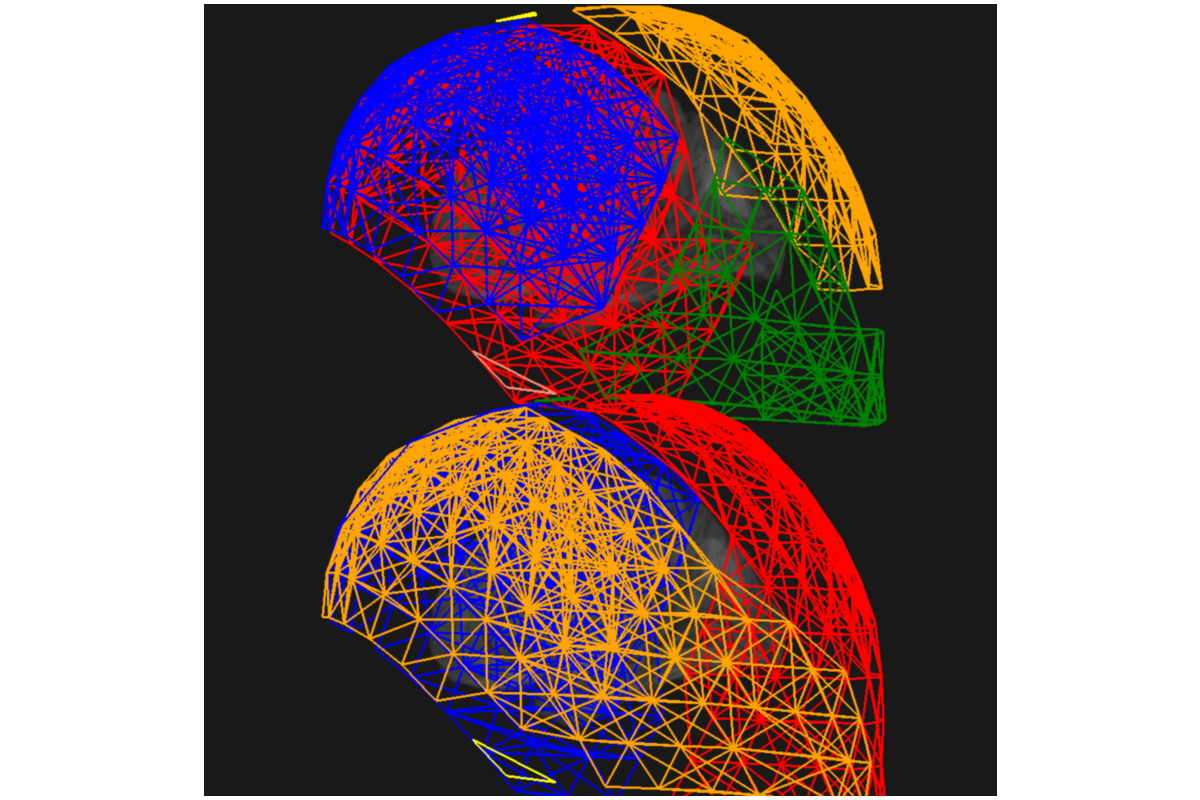
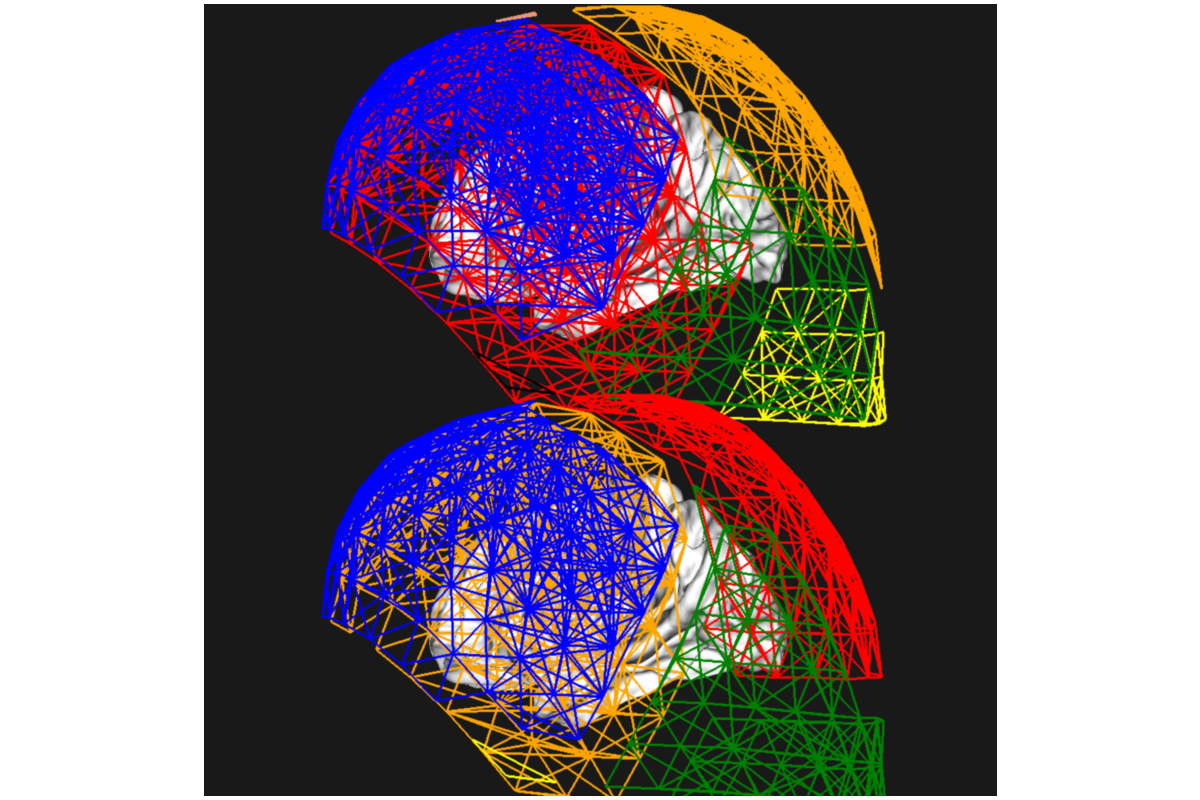
Make install

Changed region(s): [[0.2467, 0.4375, 0.74, 1.0], [0.3392, 0.0938, 0.74, 0.5312], [0.4317, 0.0, 0.4625, 0.0312]]

diff --git a/searchindex.js b/searchindex.js
@@ -1,1 +1,1 @@
-Search.setIndex({docnames:["api","auto_examples/index","auto_examples/plot_conmat_to_graph","index"],envversion:{"sphinx.domains.c":1,"sphinx.domains.changeset":1,"sphinx.domains.cpp":1,"sphinx.domains.javascript":1,"sphinx.domains.math":2,"sphinx.domains.python":1,"sphinx.domains.rst":1,"sphinx.domains.std":1,"sphinx.ext.intersphinx":1,"sphinx.ext.viewcode":1,sphinx:55},filenames:["api.rst","auto_examples/index.rst","auto_examples/plot_conmat_to_graph.rst","index.rst"],objects:{},objnames:{},objtypes:{},terms:{"class":2,"export":3,"final":2,"function":[2,3],"import":2,"true":2,"try":2,For:2,The:[2,3],Then:2,__path__:2,_blank:2,_freq_band_name_:2,add:3,add_to_subplot:2,admiss:2,advanc:3,again:2,algorithm:2,all:[1,3],alon:3,alpha:2,also:2,analys:3,analysi:[2,3],anoth:3,api:3,author:2,auto_examples_jupyt:1,auto_examples_python:1,avail:2,axi:2,b_obj:2,band:2,base:[2,3],base_dir:2,base_directori:2,bashrc:3,best:2,beta:2,bgcolor:2,bigger:3,brain:3,brainobj:2,briefli:2,bsd:2,c_obj:2,can:[2,3],cat:[2,3],chanc:2,check:2,chosen:2,claus:2,click:2,code:[1,2],coher:2,color:2,com:3,common:3,commonli:3,communities_detect:3,communities_tool:3,community_rada:2,comput:[1,3],con_den:2,config:2,conmat_0_coh:2,conmat_fil:2,conmat_to_graph:[2,3],connect:[1,3],contain:2,coords_fil:2,correct_channel_nam:2,correl:2,correspond:2,cpu:2,creat:2,create_datagrabb:2,create_iter:2,create_pipeline_conmat_to_graph_dens:2,data:[2,3],data_con:2,data_path:2,datagrabb:2,dataset:2,datasourc:2,david:[2,3],david_meunier_79:2,defin:3,deim:[2,3],densiti:2,detail:2,develop:3,dict:2,differ:[2,3],directori:[2,3],download:[1,2,3],each:3,easi:3,eeg:3,electrophysiolog:3,engin:[2,3],enumer:2,env:3,ephypyp:[2,3],etc:2,exampl:2,except:2,execut:2,exist:3,exit:2,expect:2,extract:3,facilit:3,fals:2,fast:[2,3],fetch_omega_dataset:2,field:[2,3],fif:3,figsiz:2,figur:2,file:3,filenam:2,find_commun:3,first:2,fmri:3,focu:3,follow:3,follw:2,format:[2,3],found:2,framework:3,freq_band_nam:2,frequenc:2,from:[1,3],full:2,galleri:2,gener:[1,2],get_frequency_band:2,github:3,given:1,global:2,gomez:[2,3],grab:2,graph2us:2,graph:[1,3],graph_analysi:2,graph_analysis_nam:2,graph_den_pipe_den_0_05:2,graph_workflow:2,graphpyp:[0,2],have:2,here:2,higher:2,home:3,hotmail:2,how:2,href:2,html:2,http:[2,3],identityinterfac:2,imag:3,img:2,implement:[2,3],importerror:2,imread:2,imshow:2,includ:3,infield:2,infosourc:2,input:[2,3],inputnod:2,instal:2,instanti:2,inter_modul:2,interfac:2,ipynb:2,iter:2,job:2,join:2,jupyt:[1,2],kit:3,labels_fil:2,last:2,least:2,left:2,lego:3,licens:2,line:3,linux32:3,linux64:3,local:2,lol:2,lol_fil:2,longer:2,loop:2,main:3,main_workflow:2,mani:3,martino:2,master:3,mat:3,matlab:3,matplotlib:2,matric:3,matrix:1,maximum:2,mayb:3,mean:2,meg:3,meunier:2,minut:2,misc:2,mne:[2,3],mni_coord:2,modal:3,modul:[2,3],moment:2,more:2,multi:3,multiproc:2,n_proc:2,name:2,need:2,net:2,net_fil:2,network_properti:3,network_tool:3,neuro:3,neuroimag:3,neuropycon_data:2,nio:2,nipyp:[2,3],node:[0,2,3],noqa:2,notebook:[1,2],notic:2,now:2,npy:[2,3],number:2,numpi:3,object:2,off:2,one:2,open:3,optim_seq:2,optimis:2,option:2,order:2,org:2,other_tool:3,our:2,out:2,outfield:2,output:[2,3],packag:3,paramet:2,particular:[2,3],pass:2,path:[2,3],paus:2,pearson:2,perform:2,php:[2,3],pip:[2,3],pipelin:[0,2,3],pli:2,plot:2,plot_conmat_to_graph:2,plot_connectivity_circl:2,plotspectralconn:2,plt:2,plugin:2,plugin_arg:2,png:2,possibl:3,prep_rada:2,prepare_network:3,preview:2,print:2,process:3,project:3,properti:1,propos:2,provid:3,pyplot:2,python3:3,python:[1,2,3],rada_path:3,radatool:2,radatools_optim:2,raw:[2,3],reach:2,readi:2,readm:2,reformat_result:3,reliabl:2,remove_unnecessary_output:2,repetit:2,replac:3,repo:3,reposit:2,requir:2,res_path:2,result:2,rotat:2,row:2,run:[2,3],sceneobj:2,scipi:2,script:2,search:2,second:2,see:2,sequenc:2,sergio:[2,3],seri:[2,3],set:3,sever:2,should:[2,3],show:2,sign:2,size:2,softwar:3,some:2,sort_filelist:2,sotwar:3,sourc:[1,2,3],specifi:[2,3],spectral:2,spectral_connect:2,spectralconn:2,sphinx:[1,2],stabl:2,stand:3,step:3,store:2,subsequ:3,tabu:2,take:2,taken:2,target:2,tell:2,templat:2,template_arg:2,template_path:2,test:2,tfrf:2,theoret:3,thi:2,thread:3,three:3,threshold:2,thu:2,time:[2,3],titl:2,title_bold:2,title_color:2,title_s:2,togeth:[2,3],tool:3,total:2,two:[2,3],txt:2,typic:2,unsign:2,upon:2,urv:[2,3],use_this_cam:2,used:[2,3],user:3,using:2,util:[0,2],utils_visbrain:2,valu:2,variabl:3,veri:[2,3],visbrain:2,visu:2,visu_graph_modul:2,visual:2,viz:2,wai:3,warn:2,weight:2,well:3,what:2,where:3,which:[2,3],white:2,within:2,work:3,workflow:[2,3],wrap:3,write:2,write_graph:2,x_offset:2,y_offset:2,you:3,your:3,z_list:2,z_offset:2,zip:[1,3],zipbal:3},titles:["API Documentation","Examples Gallery","Compute Graph properties from a given connectivity matrix","Neuropycon"],titleterms:{For:3,api:0,comput:2,connect:2,document:0,exampl:1,from:2,galleri:1,given:2,graph:2,graphpyp:3,instal:3,matrix:2,neuropycon:3,properti:2,radatool:3}})
+Search.setIndex({docnames:["api","auto_examples/index","auto_examples/plot_conmat_to_graph","index"],envversion:{"sphinx.domains.c":1,"sphinx.domains.changeset":1,"sphinx.domains.cpp":1,"sphinx.domains.javascript":1,"sphinx.domains.math":2,"sphinx.domains.python":1,"sphinx.domains.rst":1,"sphinx.domains.std":1,"sphinx.ext.intersphinx":1,"sphinx.ext.viewcode":1,sphinx:55},filenames:["api.rst","auto_examples/index.rst","auto_examples/plot_conmat_to_graph.rst","index.rst"],objects:{},objnames:{},objtypes:{},terms:{"class":2,"export":3,"final":2,"function":[2,3],"import":2,"true":2,"try":2,For:2,The:[2,3],Then:2,__path__:2,_blank:2,_freq_band_name_:2,add:3,add_to_subplot:2,admiss:2,advanc:3,again:2,algorithm:2,all:[1,3],alon:3,alpha:2,also:2,analys:3,analysi:[2,3],anoth:3,api:3,author:2,auto_examples_jupyt:1,auto_examples_python:1,avail:2,axi:2,b_obj:2,band:2,base:[2,3],base_dir:2,base_directori:2,bashrc:3,best:2,beta:2,bgcolor:2,bigger:3,brain:3,brainobj:2,briefli:2,bsd:2,c_obj:2,can:[2,3],cat:[2,3],chanc:2,check:2,chosen:2,claus:2,click:2,code:[1,2],coher:2,color:2,com:3,common:3,commonli:3,communities_detect:3,communities_tool:3,community_rada:2,comput:[1,3],con_den:2,config:2,conmat_0_coh:2,conmat_fil:2,conmat_to_graph:[2,3],connect:[1,3],contain:2,coords_fil:2,correct_channel_nam:2,correl:2,correspond:2,cpu:2,creat:2,create_datagrabb:2,create_iter:2,create_pipeline_conmat_to_graph_dens:2,data:[2,3],data_con:2,data_path:2,datagrabb:2,dataset:2,datasourc:2,david:[2,3],david_meunier_79:2,defin:3,deim:[2,3],densiti:2,detail:2,develop:3,dict:2,differ:[2,3],directori:[2,3],download:[1,2,3],each:3,easi:3,eeg:3,electrophysiolog:3,engin:[2,3],enumer:2,env:3,ephypyp:[2,3],etc:2,exampl:2,except:2,execut:2,exist:3,exit:2,expect:2,extract:3,facilit:3,fals:2,fast:[2,3],fetch_omega_dataset:2,field:[2,3],fif:3,figsiz:2,figur:2,file:3,filenam:2,find_commun:3,first:2,fmri:3,focu:3,follow:3,follw:2,format:[2,3],found:2,framework:3,freq_band_nam:2,frequenc:2,from:[1,3],full:2,galleri:2,gener:[1,2],get_frequency_band:2,github:3,given:1,global:2,gomez:[2,3],grab:2,graph2us:2,graph:[1,3],graph_analysi:2,graph_analysis_nam:2,graph_den_pipe_den_0_05:2,graph_workflow:2,graphpyp:[0,2],have:2,here:2,higher:2,home:3,hotmail:2,how:2,href:2,html:2,http:[2,3],identityinterfac:2,imag:3,img:2,implement:[2,3],importerror:2,imread:2,imshow:2,includ:3,infield:2,infosourc:2,input:[2,3],inputnod:2,instal:2,instanti:2,inter_modul:2,interfac:2,ipynb:2,iter:2,job:2,join:2,jupyt:[1,2],kit:3,labels_fil:2,last:2,least:2,left:2,lego:3,licens:2,line:3,linux32:3,linux64:3,local:2,lol:2,lol_fil:2,longer:2,loop:2,main:3,main_workflow:2,mani:3,martino:2,master:3,mat:3,matlab:3,matplotlib:2,matric:3,matrix:1,maximum:2,mayb:3,mean:2,meg:3,meunier:2,minut:2,misc:2,mne:[2,3],mni_coord:2,modal:3,modul:[2,3],moment:2,more:2,multi:3,multiproc:2,n_proc:2,name:2,need:2,net:2,net_fil:2,net_prop:2,network_properti:3,network_tool:3,neuro:3,neuroimag:3,neuropycon_data:2,nio:2,nipyp:[2,3],node:[0,2,3],noqa:2,notebook:[1,2],notic:2,now:2,npy:[2,3],number:2,numpi:3,object:2,off:2,one:2,open:3,optim_seq:2,optimis:2,option:2,order:2,org:2,other_tool:3,our:2,out:2,outfield:2,output:[2,3],packag:3,paramet:2,particular:[2,3],pass:2,path:[2,3],paus:2,pearson:2,perform:2,php:[2,3],pip:[2,3],pipelin:[0,2,3],pli:2,plot:2,plot_conmat_to_graph:2,plot_connectivity_circl:2,plotspectralconn:2,plt:2,plugin:2,plugin_arg:2,png:2,possibl:3,prep_rada:2,prepare_network:3,preview:2,print:2,process:3,project:3,properti:1,propos:2,provid:3,pyplot:2,python3:3,python:[1,2,3],rada_path:3,radatool:2,radatools_optim:2,raw:[2,3],reach:2,readi:2,readm:2,reformat_result:3,reliabl:2,remove_unnecessary_output:2,repetit:2,replac:3,repo:3,reposit:2,requir:2,res_path:2,result:2,rotat:2,row:2,run:[2,3],sceneobj:2,scipi:2,script:2,search:2,second:2,see:2,sequenc:2,sergio:[2,3],seri:[2,3],set:3,sever:2,should:[2,3],show:2,sign:2,size:2,softwar:3,some:2,sort_filelist:2,sotwar:3,sourc:[1,2,3],specifi:[2,3],spectral:2,spectral_connect:2,spectralconn:2,sphinx:[1,2],stabl:2,stand:3,step:3,store:2,subsequ:3,tabu:2,take:2,taken:2,target:2,tell:2,templat:2,template_arg:2,template_path:2,test:2,tfrf:2,theoret:3,thi:2,thread:3,three:3,threshold:2,thu:2,time:[2,3],titl:2,title_bold:2,title_color:2,title_s:2,togeth:[2,3],tool:3,total:2,transluc:2,two:[2,3],txt:2,typic:2,unsign:2,upon:2,urv:[2,3],use_this_cam:2,used:[2,3],user:3,using:2,util:[0,2],utils_visbrain:2,valu:2,variabl:3,veri:[2,3],visbrain:2,visu:2,visu_graph_modul:2,visual:2,viz:2,wai:3,warn:2,weight:2,well:3,what:2,where:3,which:[2,3],white:2,within:2,work:3,workflow:[2,3],wrap:3,write:2,write_graph:2,x_offset:2,y_offset:2,you:3,your:3,z_list:2,z_offset:2,zip:[1,3],zipbal:3},titles:["API Documentation","Examples Gallery","Compute Graph properties from a given connectivity matrix","Neuropycon"],titleterms:{For:3,api:0,comput:2,connect:2,document:0,exampl:1,from:2,galleri:1,given:2,graph:2,graphpyp:3,instal:3,matrix:2,neuropycon:3,properti:2,radatool:3}})

diff --git a/auto_examples/plot_conmat_to_graph.html b/auto_examples/plot_conmat_to_graph.html
@@ -263,10 +263,10 @@ here correspond to how we connected the nodes.</p>
 <span class="c1">#main_workflow.run(plugin=&#39;MultiProc&#39;, plugin_args={&#39;n_procs&#39;: 2})</span>
 
 <span class="c1"># Run workflow</span>
-<span class="c1">#main_workflow.run()</span>
-
-
-<span class="kn">from</span> <span class="nn">graphpype.utils_visbrain</span> <span class="kn">import</span> <span class="n">visu_graph_modules</span>
+<span class="n">main_workflow</span><span class="o">.</span><span class="n">run</span><span class="p">()</span>
+</pre></div>
+</div>
+<div class="highlight-python notranslate"><div class="highlight"><pre><span></span><span class="kn">from</span> <span class="nn">graphpype.utils_visbrain</span> <span class="kn">import</span> <span class="n">visu_graph_modules</span>
 
 <span class="n">labels_file</span> <span class="o">=</span> <span class="n">op</span><span class="o">.</span><span class="n">join</span><span class="p">(</span><span class="n">data_path</span><span class="p">,</span> <span class="s2">&quot;correct_channel_names.txt&quot;</span><span class="p">)</span>
 <span class="n">coords_file</span> <span class="o">=</span> <span class="n">op</span><span class="o">.</span><span class="n">join</span><span class="p">(</span><span class="n">data_path</span><span class="p">,</span> <span class="s2">&quot;MNI_coords.txt&quot;</span><span class="p">)</span>
@@ -304,7 +304,10 @@ here correspond to how we connected the nodes.</p>
 
     <span class="n">net_file</span> <span class="o">=</span> <span class="n">op</span><span class="o">.</span><span class="n">join</span><span class="p">(</span><span class="n">res_path</span><span class="p">,</span><span class="s2">&quot;prep_rada&quot;</span><span class="p">,</span> <span class="s2">&quot;Z_List.net&quot;</span><span class="p">)</span>
 
-    <span class="n">b_obj</span> <span class="o">=</span> <span class="n">BrainObj</span><span class="p">(</span><span class="s2">&quot;white&quot;</span><span class="p">)</span>
+    <span class="c1">#net_file = op.join(res_path,&quot;net_prop&quot;, &quot;Z_List.net&quot;)</span>
+
+    <span class="n">b_obj</span> <span class="o">=</span> <span class="n">BrainObj</span><span class="p">(</span><span class="s2">&quot;white&quot;</span><span class="p">,</span> <span class="n">translucent</span> <span class="o">=</span> <span class="bp">False</span><span class="p">)</span>
+
     <span class="n">sc</span><span class="o">.</span><span class="n">add_to_subplot</span><span class="p">(</span><span class="n">b_obj</span><span class="p">,</span> <span class="n">row</span> <span class="o">=</span> <span class="n">nf</span><span class="p">,</span><span class="n">use_this_cam</span><span class="o">=</span><span class="bp">True</span><span class="p">,</span> <span class="n">rotate</span><span class="o">=</span><span class="s1">&#39;left&#39;</span><span class="p">)</span>
 
 
@@ -322,7 +325,7 @@ here correspond to how we connected the nodes.</p>
 </pre></div>
 </div>
 <img alt="../_images/sphx_glr_plot_conmat_to_graph_002.png" class="sphx-glr-single-img" src="../_images/sphx_glr_plot_conmat_to_graph_002.png" />
-<p><strong>Total running time of the script:</strong> ( 0 minutes  3.180 seconds)</p>
+<p><strong>Total running time of the script:</strong> ( 0 minutes  3.315 seconds)</p>
 <div class="sphx-glr-footer class sphx-glr-footer-example docutils container" id="sphx-glr-download-auto-examples-plot-conmat-to-graph-py">
 <div class="sphx-glr-download docutils container">
 <a class="reference download internal" download="" href="../_downloads/148019e1e7aad92d3808c5ede724a325/plot_conmat_to_graph.py"><code class="xref download docutils literal notranslate"><span class="pre">Download</span> <span class="pre">Python</span> <span class="pre">source</span> <span class="pre">code:</span> <span class="pre">plot_conmat_to_graph.py</span></code></a></div>
@@ -344,7 +347,7 @@ here correspond to how we connected the nodes.</p>
       
     </p>
     <p>
-        &copy; Copyright 2019, Neuropycon Developers. Last updated on 2019-01-21.<br/>
+        &copy; Copyright 2019, Neuropycon Developers. Last updated on 2019-01-22.<br/>
       Created using <a href="http://sphinx-doc.org/">Sphinx</a> 1.8.2.<br/>
     </p>
   </div>

diff --git a/index.html b/index.html
@@ -212,7 +212,7 @@ as well as providing easy ways to implement function defined by the user.</p>
       
     </p>
     <p>
-        &copy; Copyright 2019, Neuropycon Developers. Last updated on 2019-01-21.<br/>
+        &copy; Copyright 2019, Neuropycon Developers. Last updated on 2019-01-22.<br/>
       Created using <a href="http://sphinx-doc.org/">Sphinx</a> 1.8.2.<br/>
     </p>
   </div>

diff --git a/api.html b/api.html
@@ -148,7 +148,7 @@
       
     </p>
     <p>
-        &copy; Copyright 2019, Neuropycon Developers. Last updated on 2019-01-21.<br/>
+        &copy; Copyright 2019, Neuropycon Developers. Last updated on 2019-01-22.<br/>
       Created using <a href="http://sphinx-doc.org/">Sphinx</a> 1.8.2.<br/>
     </p>
   </div>

diff --git a/auto_examples/index.html b/auto_examples/index.html
@@ -132,7 +132,7 @@
       
     </p>
     <p>
-        &copy; Copyright 2019, Neuropycon Developers. Last updated on 2019-01-21.<br/>
+        &copy; Copyright 2019, Neuropycon Developers. Last updated on 2019-01-22.<br/>
       Created using <a href="http://sphinx-doc.org/">Sphinx</a> 1.8.2.<br/>
     </p>
   </div>

diff --git a/genindex.html b/genindex.html
@@ -116,7 +116,7 @@
       
     </p>
     <p>
-        &copy; Copyright 2019, Neuropycon Developers. Last updated on 2019-01-21.<br/>
+        &copy; Copyright 2019, Neuropycon Developers. Last updated on 2019-01-22.<br/>
       Created using <a href="http://sphinx-doc.org/">Sphinx</a> 1.8.2.<br/>
     </p>
   </div>

diff --git a/search.html b/search.html
@@ -138,7 +138,7 @@
       
     </p>
     <p>
-        &copy; Copyright 2019, Neuropycon Developers. Last updated on 2019-01-21.<br/>
+        &copy; Copyright 2019, Neuropycon Developers. Last updated on 2019-01-22.<br/>
       Created using <a href="http://sphinx-doc.org/">Sphinx</a> 1.8.2.<br/>
     </p>
   </div>

diff --git a/_downloads/148019e1e7aad92d3808c5ede724a325/plot_conmat_to_graph.py b/_downloads/148019e1e7aad92d3808c5ede724a325/plot_conmat_to_graph.py
@@ -173,8 +173,9 @@ main_workflow.config['execution'] = {'remove_unnecessary_outputs': 'false'}
 #main_workflow.run(plugin='MultiProc', plugin_args={'n_procs': 2})
 
 # Run workflow
-#main_workflow.run()
+main_workflow.run()
 
+########################################## plotting
 
 from graphpype.utils_visbrain import visu_graph_modules
 
@@ -214,7 +215,10 @@ for nf,freq_band_name in enumerate(freq_band_names):
 
     net_file = op.join(res_path,"prep_rada", "Z_List.net")
 
-    b_obj = BrainObj("white")
+    #net_file = op.join(res_path,"net_prop", "Z_List.net")
+
+    b_obj = BrainObj("white", translucent = False)
+
     sc.add_to_subplot(b_obj, row = nf,use_this_cam=True, rotate='left')
 
 
